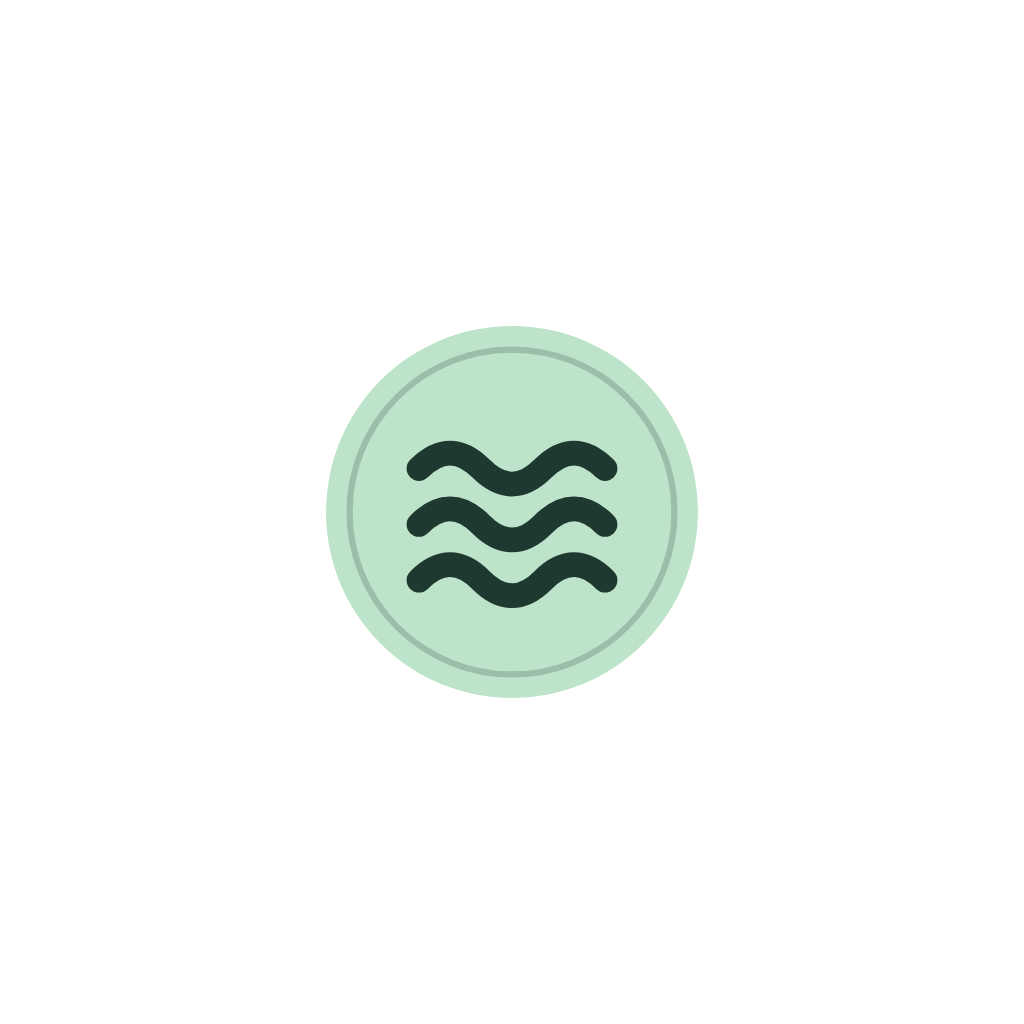
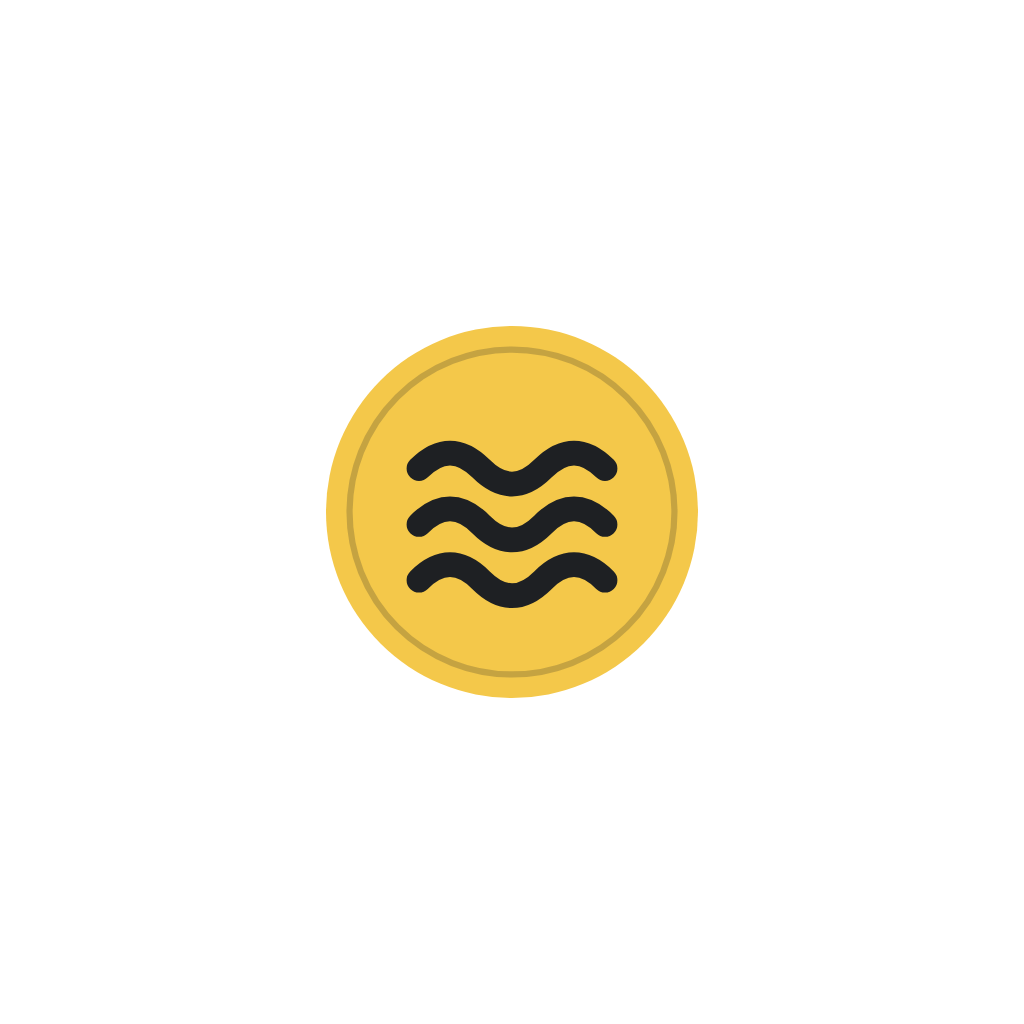
Ink and sun: matte black panel and text, one sun-yellow accent, light page
Replaces the pastel green: matte-black figure panel and floating tab pill, black text and icons, sun yellow for progress,
the Left tile and the active tab; neutral second tile; buttons turn yellow in dark mode. New coin icon and splash colours.

Changed region(s): [[0.3125, 0.3125, 0.6875, 0.6875]]

diff --git a/src/theme/tokens.ts b/src/theme/tokens.ts
@@ -1,27 +1,27 @@
 import { useColorScheme } from 'react-native';
 
 // Design tokens. One source for colour, spacing and type; every screen uses these.
-// Look: soft "Forest Night" in dark (green-black, one pastel-mint accent) and a pale-sage light theme. A muted pine panel carries the
-// month's figure, pastel mint and lilac tiles hold numbers, a floating pill is the tab bar. Warning amber and over-budget coral keep their own meaning.
+// Look: "Ink and sun". A light page, a matte-black figure panel, one warm sun-yellow accent for progress and the active tab.
+// Text and icons are matte black; dark mode lifts the same roles. Warning amber and over-budget coral keep their own meaning.
 export const light = {
-  ground: '#F2F6F1', // page background
-  groundDeep: '#E2EBE0', // tracks, unselected segments
+  ground: '#F5F5F3', // page background
+  groundDeep: '#E8E8E4', // tracks, unselected segments
   surface: '#FFFFFF', // solid surfaces
   card: '#FFFFFF', // card fill
-  cardEdge: '#DEE7DC', // card rim
+  cardEdge: '#E6E6E1', // card rim
   field: '#FFFFFF', // input and chip fill
-  ink: '#14201A', // text
-  inkMuted: '#52605A', // secondary text (AA on ground and white)
-  line: '#DEE7DC', // hairlines
-  control: '#7F8B84', // borders of inputs and buttons (3:1 against ground)
-  accent: '#2E5B47', // primary actions, links, selected states (muted pine)
+  ink: '#1E2023', // text and icons: matte black
+  inkMuted: '#5B5E63', // secondary text (AA on ground and white)
+  line: '#E6E6E1', // hairlines
+  control: '#85888D', // borders of inputs and buttons (3:1 against ground)
+  accent: '#1E2023', // primary actions, selected states
   onAccent: '#FFFFFF',
-  accentWash: '#DCEBDD', // tinted tiles behind icons
-  hero: '#264A3B', // the month's figure panel
+  accentWash: '#ECECE8', // tinted tiles behind icons
+  hero: '#222428', // the month's figure panel: matte black
   onHero: '#FFFFFF',
-  mint: '#BEE3CB', // pastel tile, progress on the panel, active tab
-  lilac: '#DAD5F6', // second pastel tile
-  onTile: '#14201A', // text on the pastel tiles
+  sun: '#F4C84A', // the one warm accent: progress on the panel, the Left tile, the active tab
+  tile: '#ECECE8', // neutral figure tile
+  onTile: '#1E2023', // text on the tiles
   coral: '#B8362E', // over budget, errors
   amber: '#E0A526', // warnings: fill only; the state is always also said in text. Never text or a lone icon
   amberDeep: '#8A5A00', // warning icons and borders (3:1+ on ground and white)
@@ -33,24 +33,24 @@ export type Palette = { [K in keyof typeof light]: string };
 
 /** The same roles in the dark theme: same hues, lifted for contrast on a dark ground (every text pair is tested). */
 export const dark: Palette = {
-  ground: '#0F1714',
-  groundDeep: '#18241F',
-  surface: '#15201B',
-  card: '#15201B',
-  cardEdge: '#243630',
-  field: '#15201B',
-  ink: '#E9F0EB',
-  inkMuted: '#A0B1A8',
-  line: '#243630',
-  control: '#74887D',
-  accent: '#A9D9BA',
-  onAccent: '#0F1A15',
-  accentWash: '#213B30',
-  hero: '#1F3D31',
+  ground: '#141517',
+  groundDeep: '#212327',
+  surface: '#1D1F22',
+  card: '#1D1F22',
+  cardEdge: '#2C2F34',
+  field: '#1D1F22',
+  ink: '#F1F1EF',
+  inkMuted: '#A3A6AB',
+  line: '#2C2F34',
+  control: '#7A7D83',
+  accent: '#F4C84A',
+  onAccent: '#1E2023',
+  accentWash: '#2A2C30',
+  hero: '#27292D',
   onHero: '#FFFFFF',
-  mint: '#A9D9BA',
-  lilac: '#CFC9F2',
-  onTile: '#14201A',
+  sun: '#F4C84A',
+  tile: '#ECECE8',
+  onTile: '#1E2023',
   coral: '#FF9A8C',
   amber: '#E0A526',
   amberDeep: '#F0C45A',

diff --git a/src/components/ui.tsx b/src/components/ui.tsx
@@ -54,23 +54,10 @@ export const Card = ({ children, tone = 'plain', style }: { children: ReactNode;
   );
 };
 
-/** The page behind every screen: the ground colour, with a faint mint glow at the top in the dark theme. */
+/** The page behind every screen: the plain ground colour. */
 export function Backdrop() {
   const colors = useColors();
-  const dark = useIsDark();
-  const rings = 24;
-  return (
-    <View pointerEvents="none" style={[StyleSheet.absoluteFill, { backgroundColor: colors.ground, overflow: 'hidden' }]}>
-      {dark ? (
-        <View style={{ position: 'absolute', top: -200, end: -200, width: 440, height: 440, alignItems: 'center', justifyContent: 'center' }}>
-          {Array.from({ length: rings }, (_, i) => {
-            const d = 440 * (1 - i / rings);
-            return <View key={i} style={{ position: 'absolute', width: d, height: d, borderRadius: d / 2, backgroundColor: colors.mint, opacity: 1 - Math.pow(1 - 0.10, 1 / rings) }} />;
-          })}
-        </View>
-      ) : null}
-    </View>
-  );
+  return <View pointerEvents="none" style={[StyleSheet.absoluteFill, { backgroundColor: colors.ground }]} />;
 }
 
 /** Large screen title with an optional calm line under it. One place so every tab starts the same way. */
@@ -215,7 +202,7 @@ function Fill({ percent, color }: { percent: number; color: string }) {
 
 export function ProgressBar({ percent, state, label, onHero }: { percent: number; state: 'ok' | 'near' | 'over'; label: string; onHero?: boolean }) {
   const colors = useColors();
-  const fill = onHero ? colors.mint : state === 'over' ? colors.coral : state === 'near' ? colors.amber : colors.accent;
+  const fill = onHero ? colors.sun : state === 'over' ? colors.coral : state === 'near' ? colors.amber : colors.accent;
   return (
     <View accessible accessibilityRole="progressbar" accessibilityLabel={label} accessibilityValue={{ min: 0, max: 100, now: percent }}
       style={{ height: 14, borderRadius: radius.pill, backgroundColor: onHero ? 'rgba(255,255,255,0.28)' : colors.groundDeep, overflow: 'hidden' }}>
@@ -301,7 +288,7 @@ export function SettingRow({ icon, title, subtitle, value, onValueChange, disabl
   );
 }
 
-/** Pastel figure tile: a short label over one amount, dark text on mint or lilac. */
+/** Pastel figure tile: a short label over one amount, dark text on sun or tile. */
 export function Tile({ color, label, laari }: { color: string; label: string; laari: number }) {
   const colors = useColors();
   return (

diff --git a/src/components/TrendChart.tsx b/src/components/TrendChart.tsx
@@ -23,7 +23,7 @@ export function TrendChart({ months, spend, income, selected, onSelect }: { mont
       <View style={{ flexDirection: 'row', gap: space.lg, flexWrap: 'wrap' }}>
         {([['trend.spending', colors.accent, 'solid'], ['trend.income', colors.accent, 'outline']] as const).map(([k, c, kind]) => (
           <View key={k} style={{ flexDirection: 'row', alignItems: 'center', gap: space.xs }}>
-            <View style={{ width: 14, height: 14, borderRadius: 4, borderCurve: 'continuous', backgroundColor: kind === 'solid' ? c : colors.mint, borderWidth: 2, borderColor: c }} />
+            <View style={{ width: 14, height: 14, borderRadius: 4, borderCurve: 'continuous', backgroundColor: kind === 'solid' ? c : colors.sun, borderWidth: 2, borderColor: c }} />
             <Text variant="small" color={colors.inkMuted}>{t(k)}</Text>
           </View>
         ))}
@@ -42,7 +42,7 @@ export function TrendChart({ months, spend, income, selected, onSelect }: { mont
             >
               <View style={{ height: HEIGHT, flexDirection: 'row', alignItems: 'flex-end', gap: 3, width: '100%', justifyContent: 'center' }}>
                 <View style={{ width: '40%', maxWidth: 18, height: `${barPercent(spend[i], max)}%`, backgroundColor: colors.accent, borderTopLeftRadius: radius.sm / 2, borderTopRightRadius: radius.sm / 2 }} />
-                <View style={{ width: '40%', maxWidth: 18, height: `${barPercent(income[i], max)}%`, borderWidth: income[i] > 0 ? 2 : 0, borderColor: colors.accent, borderBottomWidth: 0, backgroundColor: colors.mint, borderTopLeftRadius: radius.sm / 2, borderTopRightRadius: radius.sm / 2 }} />
+                <View style={{ width: '40%', maxWidth: 18, height: `${barPercent(income[i], max)}%`, borderWidth: income[i] > 0 ? 2 : 0, borderColor: colors.accent, borderBottomWidth: 0, backgroundColor: colors.sun, borderTopLeftRadius: radius.sm / 2, borderTopRightRadius: radius.sm / 2 }} />
               </View>
               <Text latin variant="small" color={isSel ? colors.ink : colors.inkMuted} style={{ fontFamily: isSel ? 'NunitoSans_700Bold' : undefined, textDecorationLine: isSel ? 'underline' : 'none' }}>{`${m.slice(5, 7)}/${m.slice(2, 4)}`}</Text>
             </Pressable>

diff --git a/app/(tabs)/budget.tsx b/app/(tabs)/budget.tsx
@@ -9,7 +9,7 @@ import * as api from '@/data/api';
 import { useBudgets, useCategories, useCategoryName, useExpenses, useWrite } from '@/data/hooks';
 import { budgetState, percentUsed } from '@/lib/budget';
 import { monthStart } from '@/lib/dates';
-import { formatNumber, money, parseAmount } from '@/lib/money';
+import { formatNumber, parseAmount } from '@/lib/money';
 import { radius, space, useColors } from '@/theme/tokens';
 
 /** Edit one limit in place: a field, Save, and Remove when a limit exists. */
@@ -52,7 +52,7 @@ function LimitRow({ title, icon, categoryId, limit, spent, last }: { title: stri
         <View style={{ flex: 1, gap: 2 }}>
           <Text>{title}</Text>
           {limit
-            ? <Text latin variant="small" color={colors.inkMuted} style={{ writingDirection: 'ltr' }}>{money(spent)} / {money(limit)}</Text>
+            ? <Text latin variant="small" color={colors.inkMuted} style={{ writingDirection: 'ltr' }}>MVR {formatNumber(spent)} / {formatNumber(limit)}</Text>
             : <Text variant="small" color={colors.inkMuted}>{t('budget.noLimit')}</Text>}
         </View>
         <Button kind={limit ? 'ghost' : 'secondary'} label={limit ? t('common.edit') : t('budget.setLimit')} onPress={() => setEditing(!editing)} style={limit ? undefined : { minHeight: 44, paddingHorizontal: space.lg }} />
@@ -101,7 +101,7 @@ export default function Budget() {
               : <Msg k="reports.leftOf" amounts={{ amount: overall - total, limit: overall }} color={colors.onHero} />}
           </>
         ) : null}
-        <Button kind="secondary" label={overall ? t('common.edit') : t('budget.setLimit')} onPress={() => setEditingAll(!editingAll)} style={{ backgroundColor: colors.mint, borderColor: colors.mint, alignSelf: 'flex-start' }} textColor={colors.onTile} />
+        <Button kind="secondary" label={overall ? t('common.edit') : t('budget.setLimit')} onPress={() => setEditingAll(!editingAll)} style={{ backgroundColor: colors.sun, borderColor: colors.sun, alignSelf: 'flex-start' }} textColor={colors.onTile} />
         {editingAll ? <LimitEditor categoryId={null} limit={overall} onDone={() => setEditingAll(false)} /> : null}
       </Card>
 

diff --git a/app/(tabs)/_layout.tsx b/app/(tabs)/_layout.tsx
@@ -20,8 +20,8 @@ export default function TabsLayout() {
     <Tabs
       screenOptions={{
         headerShown: false,
-        // A floating pill: deep green, the active tab is mint.
-        tabBarActiveTintColor: colors.mint,
+        // A floating pill: deep green, the active tab is sun.
+        tabBarActiveTintColor: colors.sun,
         tabBarInactiveTintColor: '#A9C2B3',
         tabBarShowLabel: false,
         tabBarStyle: { position: 'absolute', start: space.lg, end: space.lg, bottom: Math.max(insets.bottom, space.sm) + space.xs, height: 64, borderRadius: 32, borderCurve: 'continuous',
@@ -41,7 +41,7 @@ export default function TabsLayout() {
                 accessibilityRole="button"
                 accessibilityLabel={t('a11y.scanReceipt')}
                 onPress={() => router.push('/scan')}
-                style={({ pressed }) => ({ marginTop: -26, width: 64, height: 64, borderRadius: 32, backgroundColor: colors.mint, alignItems: 'center', justifyContent: 'center', opacity: pressed ? 0.85 : 1,
+                style={({ pressed }) => ({ marginTop: -26, width: 64, height: 64, borderRadius: 32, backgroundColor: colors.sun, alignItems: 'center', justifyContent: 'center', opacity: pressed ? 0.85 : 1,
                   borderWidth: 4, borderColor: colors.hero })}
               >
                 <Icon name="scan" size={28} color={colors.onTile} />

diff --git a/src/__tests__/theme.test.ts b/src/__tests__/theme.test.ts
@@ -9,7 +9,7 @@ const text: [string, keyof Palette, keyof Palette][] = [
   ['onAccent on accent', 'onAccent', 'accent'], ['coral on ground', 'coral', 'ground'], ['coral on surface', 'coral', 'surface'],
   ['ink on amberWash', 'ink', 'amberWash'], ['coral on coralWash', 'coral', 'coralWash'], ['ink on accentWash', 'ink', 'accentWash'],
   ['accent on accentWash', 'accent', 'accentWash'], ['ink on groundDeep', 'ink', 'groundDeep'], ['muted on groundDeep', 'inkMuted', 'groundDeep'],
-  ['ink on coralWash', 'ink', 'coralWash'], ['onHero on hero', 'onHero', 'hero'], ['onTile on mint', 'onTile', 'mint'], ['onTile on lilac', 'onTile', 'lilac'], ['mint on hero', 'mint', 'hero'], ['ink on card', 'ink', 'card'],
+  ['ink on coralWash', 'ink', 'coralWash'], ['onHero on hero', 'onHero', 'hero'], ['onTile on sun', 'onTile', 'sun'], ['onTile on tile', 'onTile', 'tile'], ['sun on hero', 'sun', 'hero'], ['ink on card', 'ink', 'card'],
 ];
 const parts: [string, keyof Palette, keyof Palette][] = [
   ['control on ground', 'control', 'ground'], ['control on surface', 'control', 'surface'],

diff --git a/app/(tabs)/index.tsx b/app/(tabs)/index.tsx
@@ -130,8 +130,8 @@ export default function Home() {
 
       {showTiles ? (
         <Row style={{ alignItems: 'stretch', gap: space.md, marginTop: -44, paddingHorizontal: space.lg }}>
-          {limit && state !== 'over' ? <Tile color={colors.mint} label={t('home.leftLabel')} laari={limit - spent} /> : null}
-          {incomeTotal > 0 ? <Tile color={colors.lilac} label={t('add.income')} laari={incomeTotal} /> : null}
+          {limit && state !== 'over' ? <Tile color={colors.sun} label={t('home.leftLabel')} laari={limit - spent} /> : null}
+          {incomeTotal > 0 ? <Tile color={colors.tile} label={t('add.income')} laari={incomeTotal} /> : null}
         </Row>
       ) : null}
 

diff --git a/app/(tabs)/reports.tsx b/app/(tabs)/reports.tsx
@@ -78,8 +78,8 @@ export default function Reports() {
 
       {incomeTotal > 0 ? (
         <Row style={{ alignItems: 'stretch', gap: space.md }}>
-          <Tile color={colors.lilac} label={t('reports.income')} laari={incomeTotal} />
-          <Tile color={colors.mint} label={t('reports.netShort')} laari={incomeTotal - total} />
+          <Tile color={colors.tile} label={t('reports.income')} laari={incomeTotal} />
+          <Tile color={colors.sun} label={t('reports.netShort')} laari={incomeTotal - total} />
         </Row>
       ) : null}
 

diff --git a/DESIGN.md b/DESIGN.md
@@ -2,7 +2,7 @@
 
 Source of truth is `src/theme/tokens.ts` and `src/components/ui.tsx`.
 
-- **Look:** soft "Forest Night". Dark: green-black ground (`#0F1714`) with one pastel-mint accent (`#A9D9BA`). Light: pale sage ground (`#F2F6F1`) with a muted-pine accent. A pine `hero` panel carries the month's figure; pastel mint and lilac tiles hold numbers; the tab bar is a floating pine pill with a mint active icon. Cards are solid with a fine rim. Amber warns, coral means over budget; neither is ever colour alone. Every text pair is contrast-tested.
+- **Look:** "Ink and sun". A light page (`#F5F5F3`), white cards with a fine rim, text and icons in matte black (`#1E2023`), a matte-black figure panel (`#222428`) and one warm sun-yellow (`#F4C84A`) for progress, the Left tile and the active tab. Dark mode keeps the matte panel on a charcoal ground (`#141517`) and the buttons turn yellow. Tab bar is a floating matte pill. Amber warns, coral means over budget; neither is ever colour alone. Every text pair is contrast-tested.
 - **Type:** Thaana Noor for Dhivehi, Nunito Sans for English, numbers and amounts. Scale: display 32, title 24, heading 19, body 17, small 15. Thaana line height 1.75, Latin 1.4.
 - **Space and shape:** 4 pt grid; radius 8/14/20 and pill; continuous corners.
 - **Cards:** white surface with hairline and a soft lift in light mode; `hero` tone is the deep-green panel; warn/bad/good wash tones.
